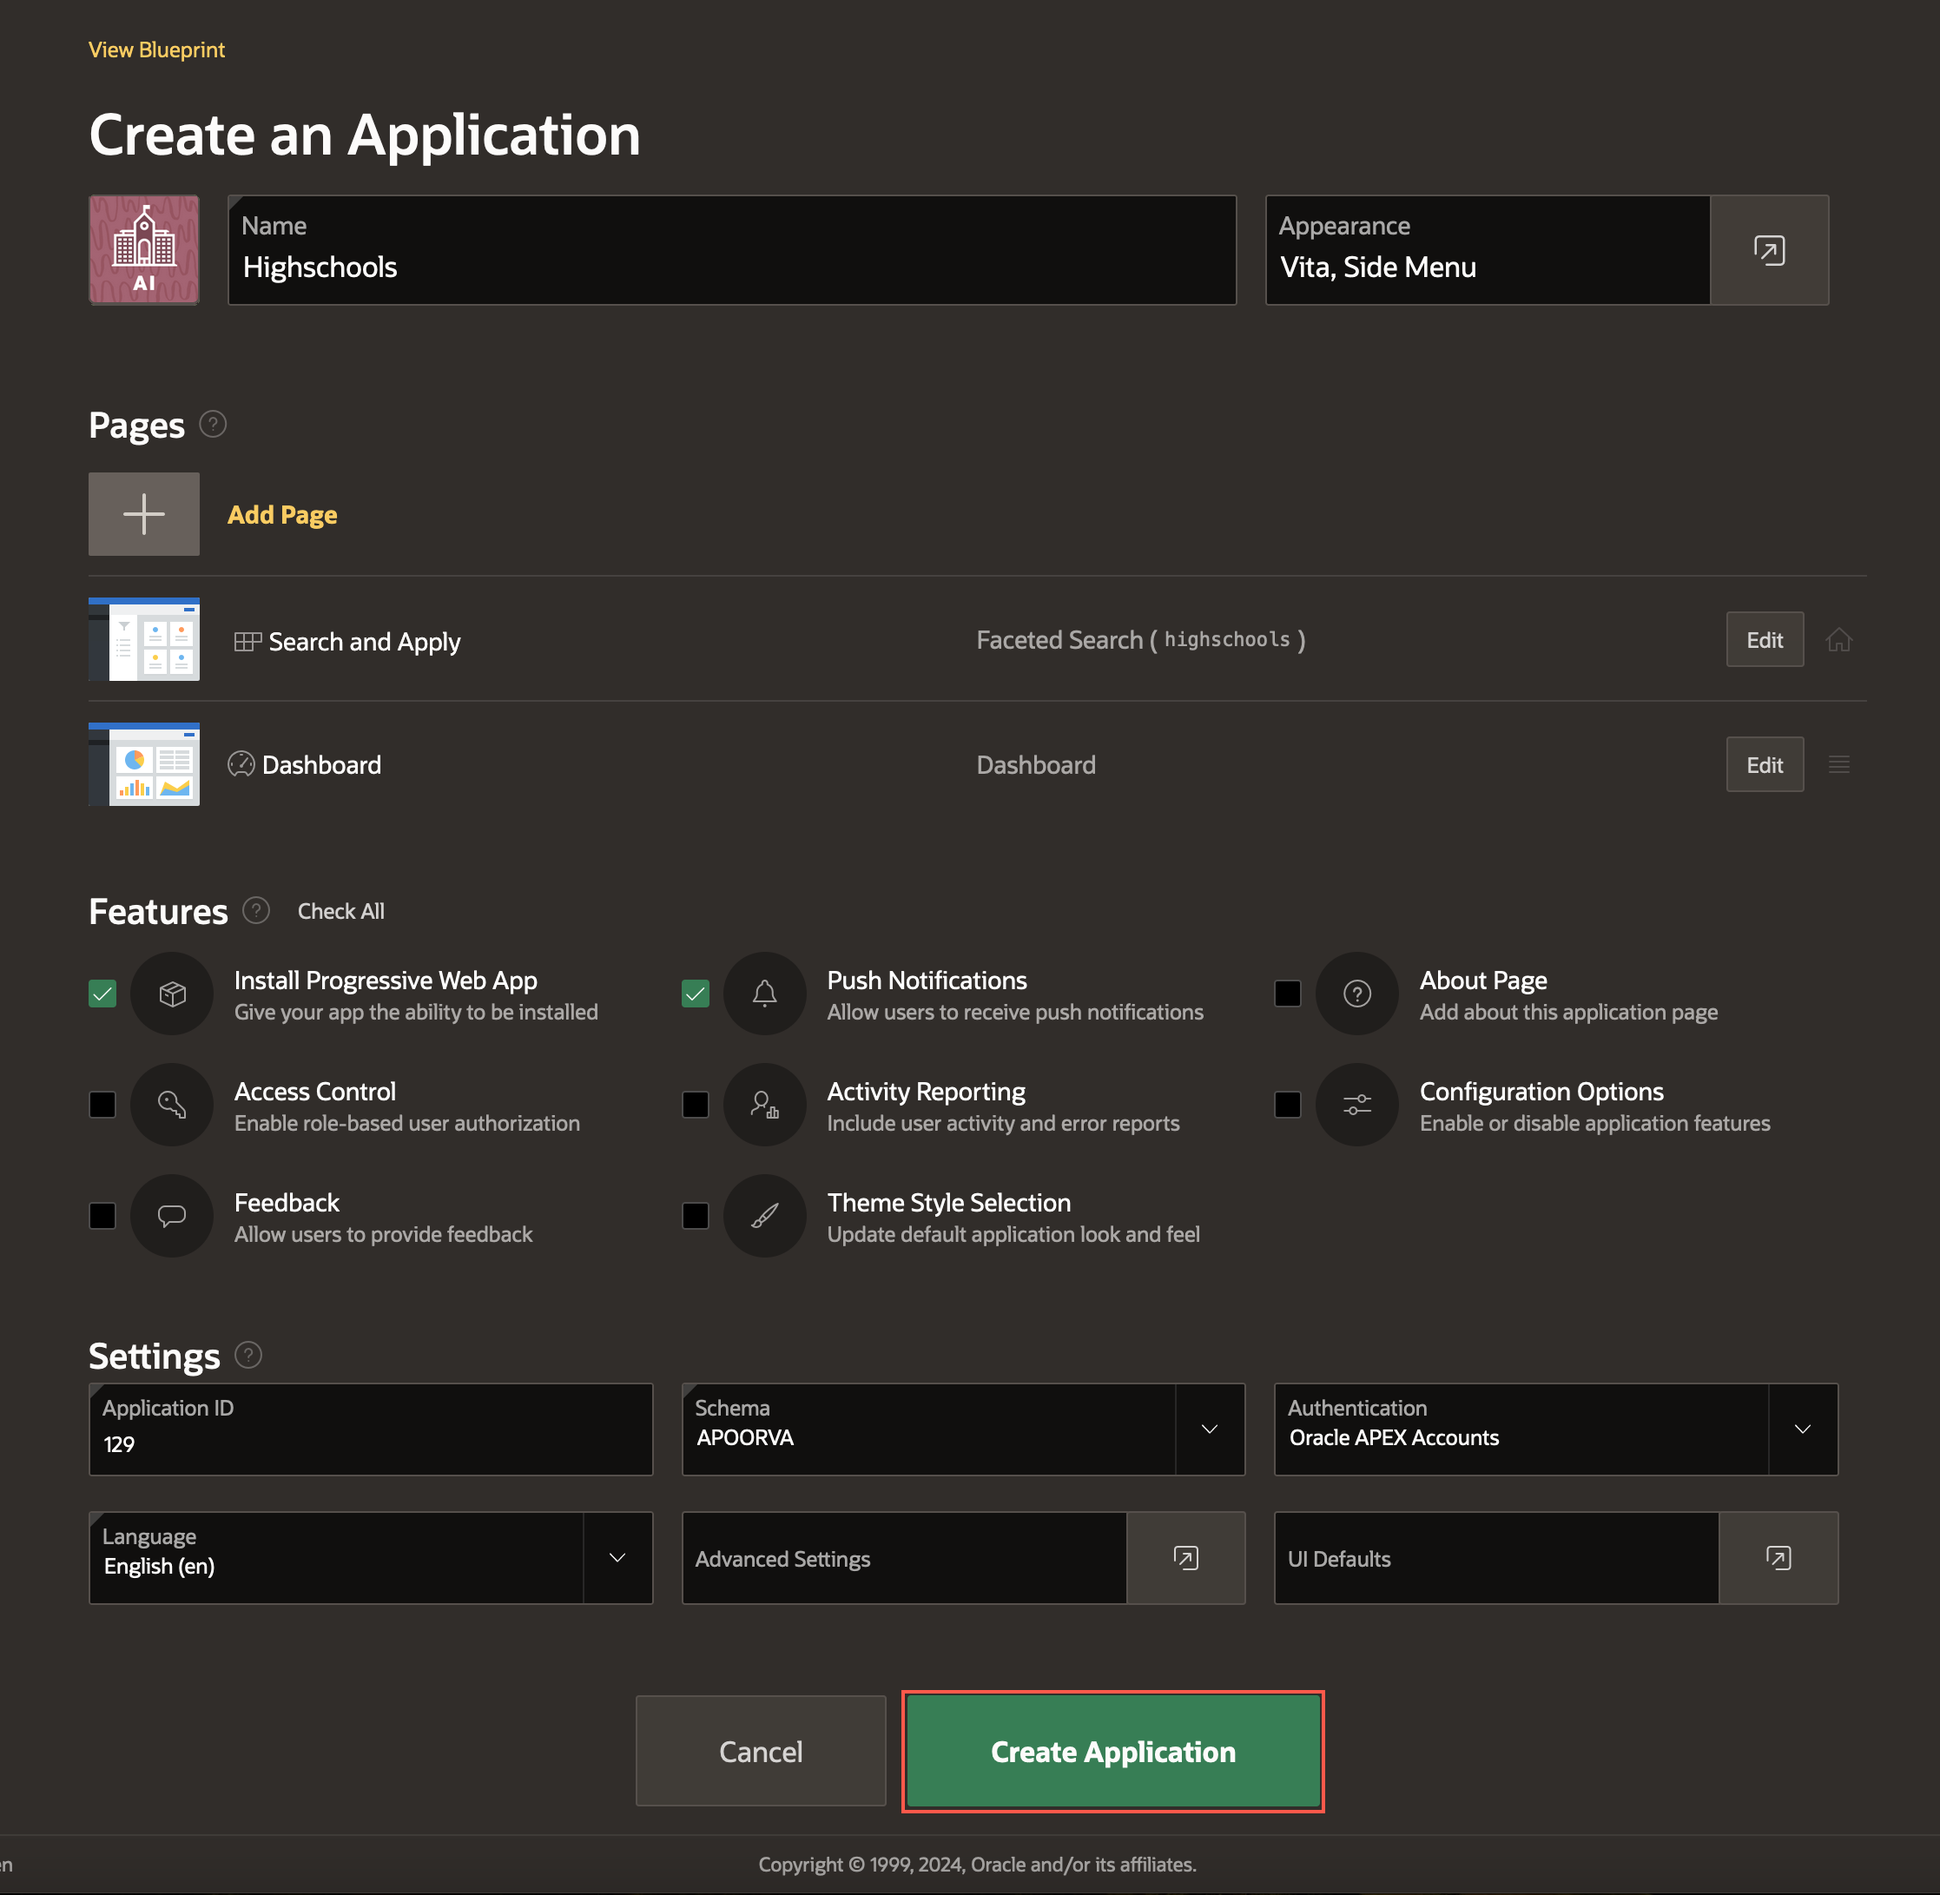
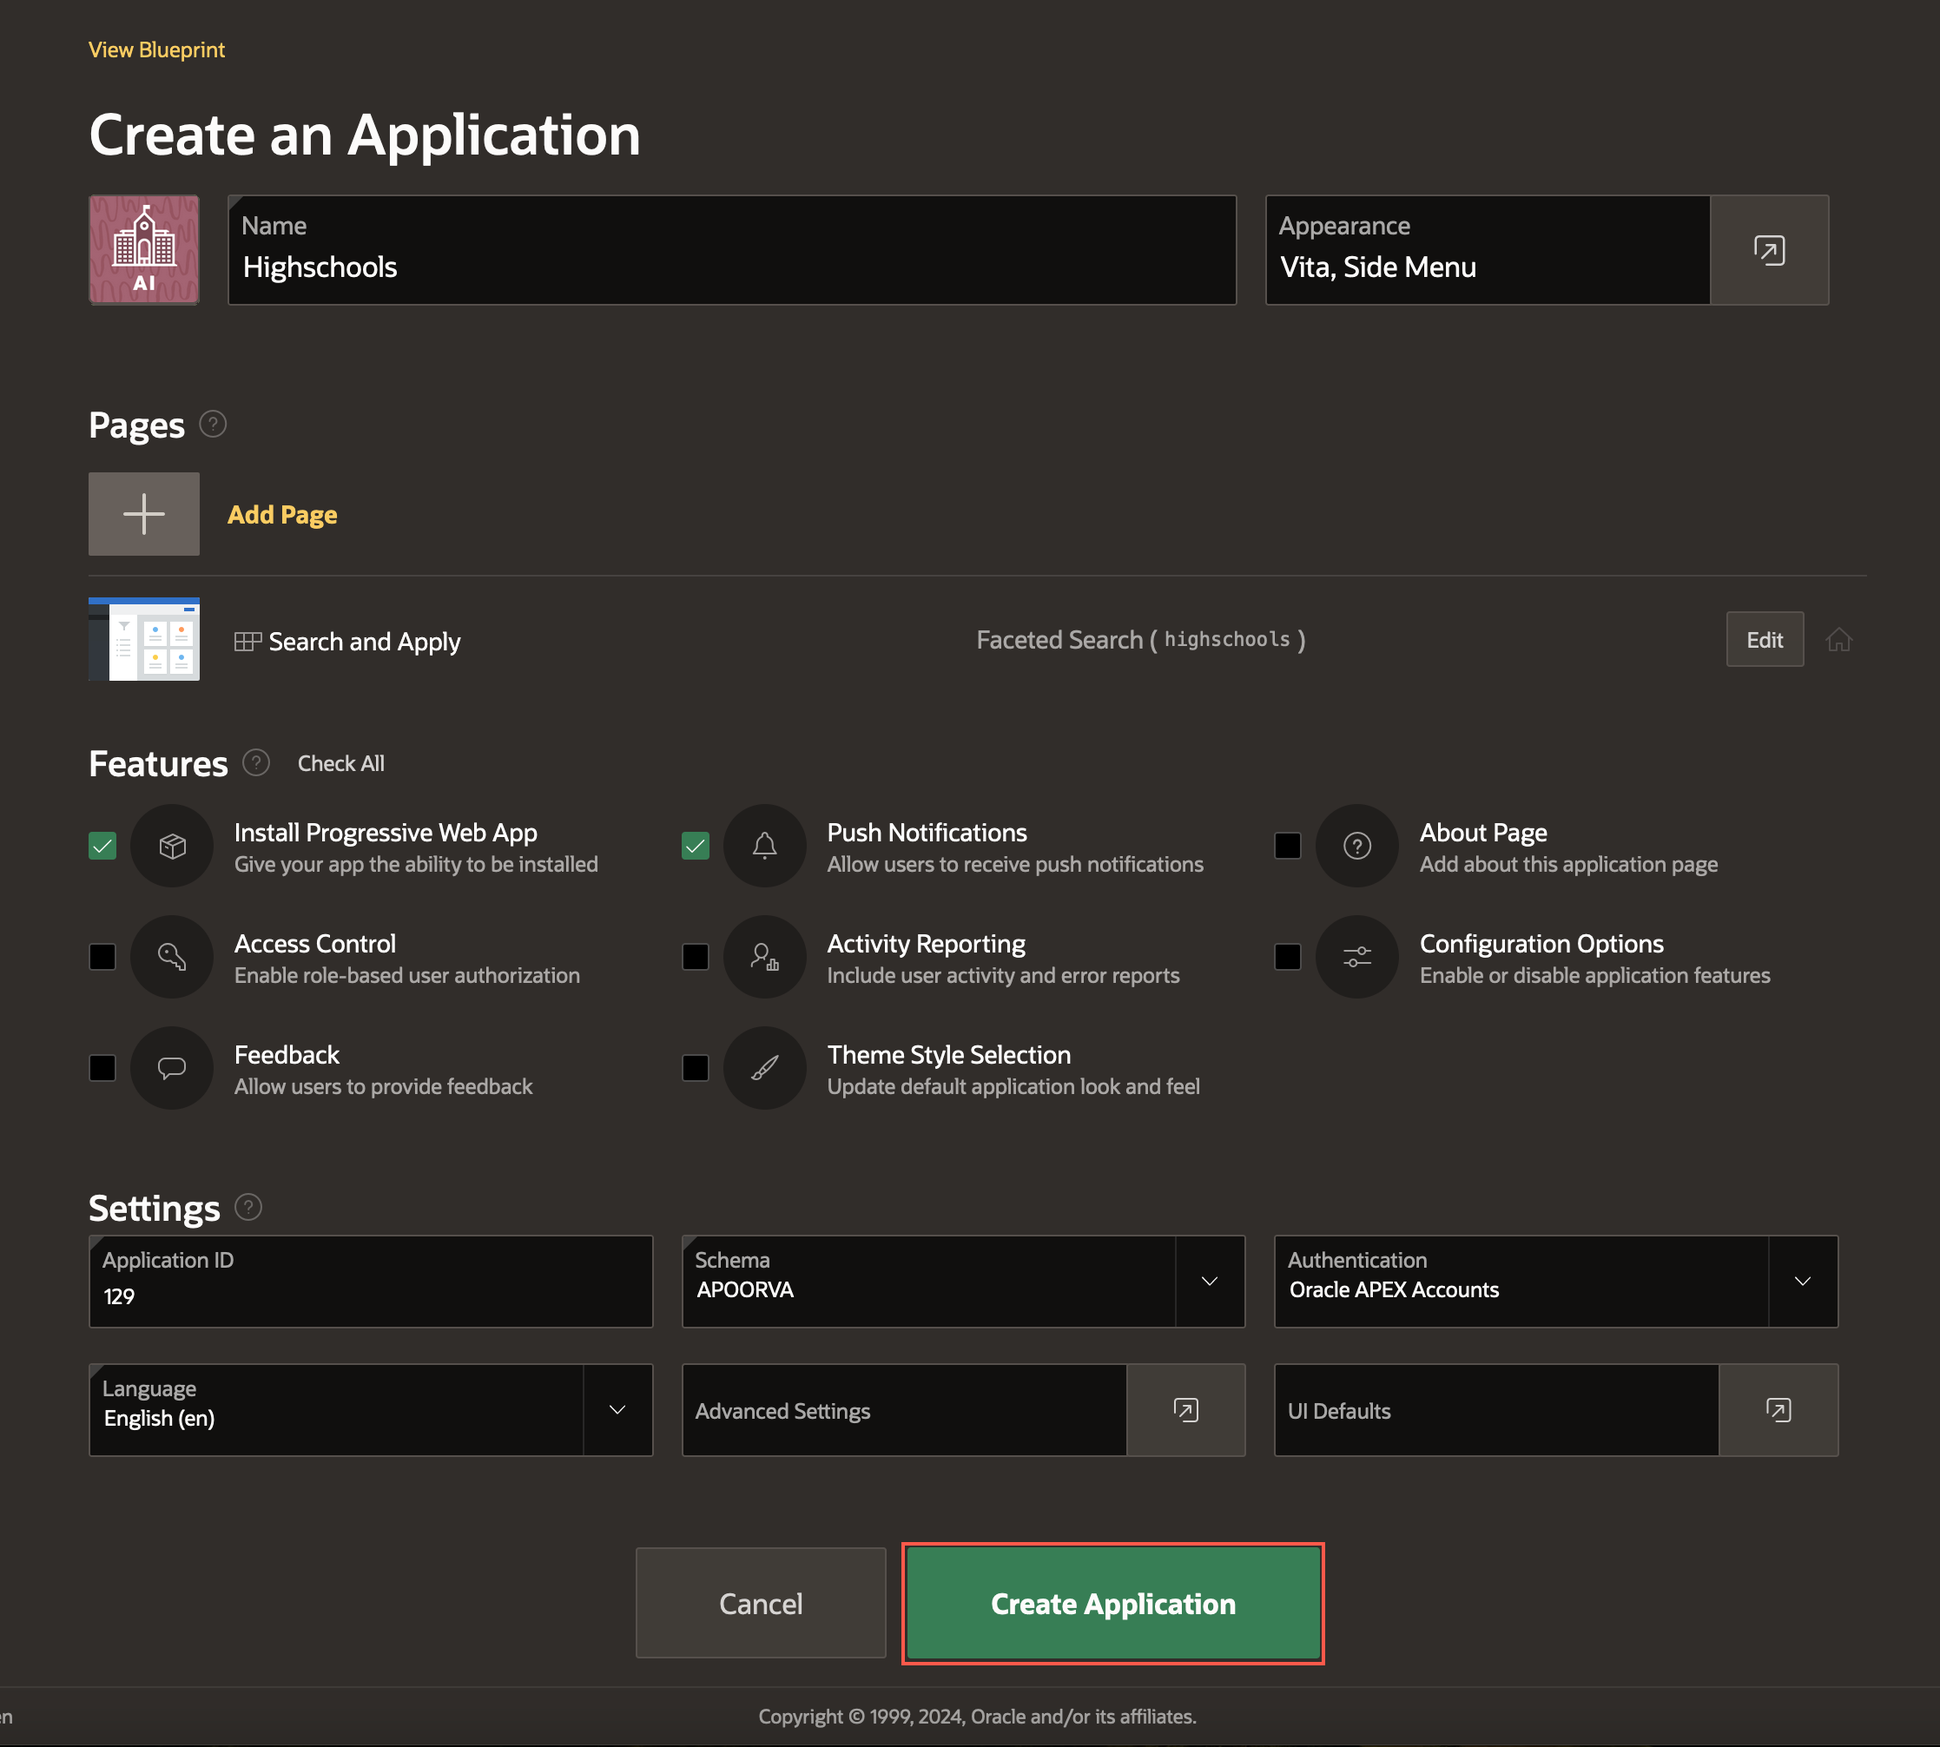
wms: 11628 - Screenshot changes and bug fix in Lab 1 (#167)
* ocw manifest files

* Added Movies-Lab workshop files

* ocw manifest files

* 22.1 updates to Spreadsheet Lab

* 22.1 updates

* Update 1-sign-up-apex.md

* Updated absolute urls

* updated the common urls

* updated the urls

* Added a NOTE to indicate version difference

* updated path for Lab 4

* Updated the paths

* Updated the Workshop Title

* Update screenshot in Task 2 Step 7

* Added alt text to images

* URLS updated in index.html

* Updated the steps for Option 2: Sign up for APEX using ADB

* alt text for images

* Shopping App 22.1 updates

* 22.1 updates

* archiving Shopping Cart 21.2

* Updated manifest files for OCW

* Feedback updated for 22.1

* Updated the PL/SQL code for checkout

* Update process-properties.png

* Feedback update 22.1

* Hid the old walkthrough videos

* Alt text for all images

* Delete clothing-images.zip

* Updated steps for Livelabs Green Button

* Changes to steps for Livelabs Green button

* Fixed the comments wrt PR

* Updated screenshots in Common

* OCW updates to optional labs

* Updated filename in manifest for optional lab

* OCI console Redwood theme screenshots

Replacement of screenshots as per the new Redwood theme for OCI console

* Resolved issue in APEX 22.2 for Task 5

Added an additional step to set the source for Region in Task 5.

* Update manifest.json

Lab 4 was pointing to an invalid lab. I have updated it to the correct folder path.

* First Draft for New Workshop
[…]

diff --git a/nyc-genai-lab/1-create-app/1-create-app.md b/nyc-genai-lab/1-create-app/1-create-app.md
@@ -89,6 +89,9 @@ The Data Load wizard has created a new table and populated that table with the r
 9. Repeat Steps 7 and 8 to delete the **Highschools Report** page.
     ![Delete page wizard](images/delete-report.png " ")
 
+10. Repeat Steps 7 and 8 to delete the **Dashboard** page.
+    ![Delete page wizard](images/delete-dashboard.png " ")
+
 10. In the Create Application wizard, under Features, check the following checkboxes:
     - **Install Progressive Web App**
     - **Push Notifications** 

diff --git a/nyc-genai-lab/2-schools-on-map/2-schools-on-map.md b/nyc-genai-lab/2-schools-on-map/2-schools-on-map.md
@@ -342,4 +342,4 @@ You may now **proceed to the next lab**.
 ## Acknowledgments
 
  - **Authors** - Toufiq Mohammed, Senior Product Manager; Apoorva Srinivas, Senior Product Manager
- - **Last Updated By/Date** - Apoorva Srinivas, Senior Product Manager, June 2024
+ - **Last Updated By/Date** - Apoorva Srinivas, Senior Product Manager, July 2024

diff --git a/nyc-genai-lab/3-using-genai/3-using-genai.md b/nyc-genai-lab/3-using-genai/3-using-genai.md
@@ -255,4 +255,4 @@ You may now **proceed to the next lab**.
 ## Acknowledgments
 
  - **Authors** - Toufiq Mohammed, Senior Product Manager; Apoorva Srinivas, Senior Product Manager
- - **Last Updated By/Date** - Apoorva Srinivas, Senior Product Manager, June 2024
+ - **Last Updated By/Date** - Apoorva Srinivas, Senior Product Manager, July 2024
